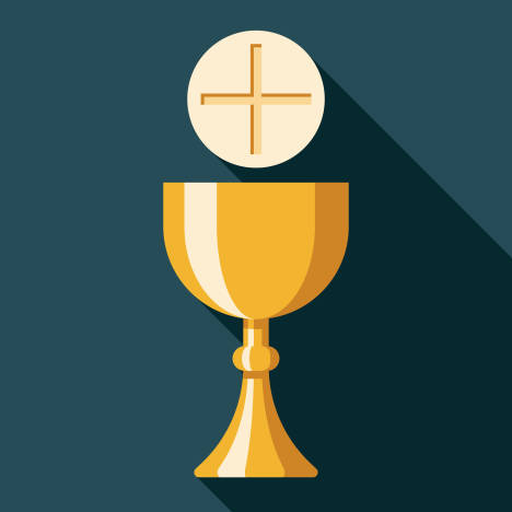
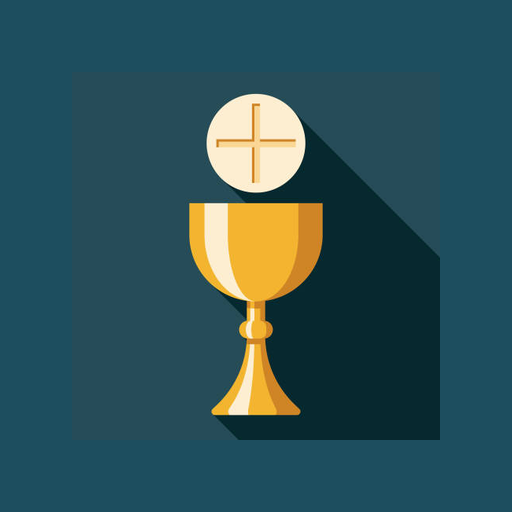
Add files via upload

diff --git a/templates/index.html b/templates/index.html
@@ -11,7 +11,7 @@
 <meta name="apple-mobile-web-app-capable" content="yes">
 <meta name="apple-mobile-web-app-status-bar-style" content="default">
 <meta name="apple-mobile-web-app-title" content="Intentions">
[2 lines of base64/hex data omitted]
 <link rel="preconnect" href="https://fonts.googleapis.com">
 <link href="https://fonts.googleapis.com/css2?family=Cormorant+Garamond:ital,wght@0,400;0,500;0,600;0,700;1,400&family=DM+Sans:wght@300;400;500;600&display=swap" rel="stylesheet">
 <style>
@@ -683,7 +683,7 @@ function renderGrille(jours) {
   const g = document.getElementById('grille-cal');
   g.innerHTML = '';
   if (!jours || !jours.length) { g.innerHTML = '<div style="grid-column:1/-1;padding:1.5rem;color:var(--texte3)">Aucune donnée.</div>'; return; }
-  ['Lu','Ma','Me','Je','Ve','Sa','Di'].forEach(j => {
+  ['Lun','Mar','Mer','Jeu','Ven','Sam','Dim'].forEach(j => {
     const el = document.createElement('div'); el.className = 'entete-cal'; el.textContent = j; g.appendChild(el);
   });
   let dec = (new Date(jours[0].date + 'T00:00:00').getDay() + 6) % 7;
@@ -774,7 +774,13 @@ function ouvrirPopupJour(j) {
     j.intentions.forEach(i => {
       const li = document.createElement('li');
       const fb = i.fixe    ? '<span class="badge badge-fixe">♦</span>'         : '';
-      const pb = i.periode ? '<span class="badge badge-periode">période</span>' : '';
+      let pbLabel = '';
+      if (i.periode) {
+        if (i.duree_periode === 9)       pbLabel = 'neuvaine';
+        else if (i.duree_periode === 30) pbLabel = 'trentain';
+        else                             pbLabel = 'période';
+      }
+      const pb = pbLabel ? `<span class="badge badge-periode">${pbLabel}</span>` : '';
       li.innerHTML = `<span class="nom-int">${i.nom}${fb}${pb}</span><span class="dem-int">${i.demandeur || '—'}</span>`;
       ul.appendChild(li);
     });
@@ -951,10 +957,30 @@ if (btnInstall && !isStandalone) {
 const btnNotif = document.getElementById('btn-notif');
 let vapidPublicKey = null;
 
+// Identifiant unique par navigateur (persistant)
+function getDeviceId() {
+  let id = localStorage.getItem('push_device_id');
+  if (!id) {
+    id = 'dev-' + Date.now().toString(36) + '-' + Math.random().toString(36).slice(2);
+    localStorage.setItem('push_device_id', id);
+  }
+  return id;
+}
+function getDeviceName() {
+  const ua = navigator.userAgent;
+  if (/Android/.test(ua)) return 'Android Chrome';
+  if (/iPhone|iPad/.test(ua)) return 'iOS Safari';
+  if (/Windows/.test(ua)) return 'Windows Chrome';
+  if (/Mac/.test(ua)) return 'Mac Chrome';
+  return 'Navigateur';
+}
+const DEVICE_ID   = getDeviceId();
+const DEVICE_NAME = getDeviceName();
+
 async function majEtatBoutonNotif() {
   try {
     const perm = Notification.permission;
-    const r = await fetch('/api/push/status').catch(() => null);
+    const r = await fetch(`/api/push/status?device_id=${DEVICE_ID}`).catch(() => null);
     const actif = r && r.ok ? (await r.json()).actif : false;
     if (perm === 'granted' && actif) {
       btnNotif.classList.add('actif');
@@ -992,7 +1018,7 @@ async function toggleNotifications() {
       const reg = await navigator.serviceWorker.ready;
       const sub = await reg.pushManager.getSubscription();
       if (sub) await sub.unsubscribe();
-      await fetch('/api/push/subscribe', { method: 'DELETE' });
+      await fetch(`/api/push/subscribe?device_id=${DEVICE_ID}`, { method: 'DELETE' });
       await majEtatBoutonNotif();
       afficherMsg('info', 'Notifications désactivées.', 'msg-inserer');
     } catch(e) { afficherMsg('erreur', 'Erreur : ' + e.message, 'msg-inserer'); }
@@ -1012,12 +1038,13 @@ async function toggleNotifications() {
       userVisibleOnly: true,
       applicationServerKey: urlBase64ToUint8Array(vapidPublicKey),
     });
+    const subJson = sub.toJSON();
     await fetch('/api/push/subscribe', {
       method: 'POST', headers: {'Content-Type':'application/json'},
-      body: JSON.stringify(sub.toJSON()),
+      body: JSON.stringify({ ...subJson, device_id: DEVICE_ID, device_name: DEVICE_NAME }),
     });
     await majEtatBoutonNotif();
-    const testR = await fetch('/api/push/test', { method: 'POST' });
+    const testR = await fetch(`/api/push/test?device_id=${DEVICE_ID}`, { method: 'POST' });
     if (testR.ok) {
       afficherMsg('succes', '✓ Notifications activées — une notification de test vient d\'être envoyée.', 'msg-inserer');
     } else {

diff --git a/app.py b/app.py
@@ -280,7 +280,8 @@ def serialise_jour(cur: date, map_jour: dict) -> dict:
             "nom":      o["nom"],
             "demandeur": o["demandeur"],
             "fixe":     o["fixe"],
-            "periode":  o["date_end"] is not None,
+            "periode":       o["date_end"] is not None,
+            "duree_periode": (o["date_end"] - o["date_start"]).days + 1 if o["date_end"] else None,
         } for o in occs],
     }
 
@@ -303,6 +304,8 @@ class DateLibreRequest(BaseModel):
 class PushSubscription(BaseModel):
     endpoint:       str
     keys:           dict
+    device_id:      str = "default"
+    device_name:    Optional[str] = None   # ex. "Android Chrome", "Windows Chrome"
     expirationTime: Optional[float] = None
 
 
@@ -615,35 +618,57 @@ from pywebpush import webpush, WebPushException
 from apscheduler.schedulers.asyncio import AsyncIOScheduler
 import pytz
 
-DATA_DIR = Path("data")
-SUB_FILE = DATA_DIR / "subscription.json"
+DATA_DIR  = Path("data")
+SUBS_DIR  = DATA_DIR / "subscriptions"
 DATA_DIR.mkdir(exist_ok=True)
-PARIS = pytz.timezone("Europe/Paris")
+SUBS_DIR.mkdir(exist_ok=True)
+PARIS     = pytz.timezone("Europe/Paris")
 MOIS_ABBR = ['jan.','fév.','mar.','avr.','mai','juin','juil.','août','sep.','oct.','nov.','déc.']
 
 
-def lire_subscription() -> Optional[dict]:
-    if SUB_FILE.exists():
+def _sub_path(device_id: str) -> Path:
+    # Sanitize : garder uniquement alphanum + tirets
+    safe = "".join(c for c in device_id if c.isalnum() or c == "-")[:64]
+    return SUBS_DIR / f"{safe}.json"
+
+
+def lire_subscriptions() -> list[dict]:
+    """Retourne toutes les subscriptions actives."""
+    subs = []
+    for p in SUBS_DIR.glob("*.json"):
         try:
-            return json.loads(SUB_FILE.read_text())
+            subs.append(json.loads(p.read_text()))
         except Exception:
-            return None
-    return None
+            pass
+    return subs
 
 
-def sauver_subscription(sub: dict) -> None:
-    SUB_FILE.write_text(json.dumps(sub, ensure_ascii=False, indent=2))
+def sauver_subscription(device_id: str, sub: dict) -> None:
+    _sub_path(device_id).write_text(json.dumps(sub, ensure_ascii=False, indent=2))
 
 
-def supprimer_subscription() -> None:
-    if SUB_FILE.exists():
-        SUB_FILE.unlink()
+def supprimer_subscription(device_id: str) -> None:
+    p = _sub_path(device_id)
+    if p.exists():
+        p.unlink()
 
 
-def envoyer_notification(subscription: dict, titre: str, corps: str) -> bool:
+def supprimer_subscription_par_endpoint(endpoint: str) -> None:
+    """Supprime l'abonnement dont l'endpoint correspond (utilisé en cas de 404/410)."""
+    for p in SUBS_DIR.glob("*.json"):
+        try:
+            data = json.loads(p.read_text())
+            if data.get("endpoint") == endpoint:
+                p.unlink()
+                return
+        except Exception:
+            pass
+
+
+def _envoyer_une(subscription: dict, titre: str, corps: str) -> tuple[bool, str]:
+    """Envoie à un seul abonné. Retourne (succès, msg_erreur)."""
     if not VAPID_PRIVATE_KEY or not VAPID_PUBLIC_KEY:
-        logger.warning("VAPID absentes — pas d'envoi")
-        return False
+        return False, "VAPID absentes."
     try:
         webpush(
             subscription_info=subscription,
@@ -652,15 +677,38 @@ def envoyer_notification(subscription: dict, titre: str, corps: str) -> bool:
             vapid_private_key=VAPID_PRIVATE_KEY,
             vapid_claims={"sub": f"mailto:{VAPID_EMAIL}"},
         )
-        return True
+        return True, ""
     except WebPushException as e:
-        logger.error("Push error: %s", e)
-        if e.response and e.response.status_code in (404, 410):
-            supprimer_subscription()
-        return False
+        status = e.response.status_code if e.response else "?"
+        body  = e.response.text[:200] if e.response else ""
+        msg   = f"Push HTTP {status} : {body}"
+        if status in (404, 410):
+            supprimer_subscription_par_endpoint(subscription.get("endpoint", ""))
+            msg += " (abonnement expiré, supprimé)"
+        elif status == 403:
+            msg += " — Mismatch VAPID : désabonnez puis réabonnez cet appareil."
+        logger.error("Push: %s", msg)
+        return False, msg
     except Exception as e:
-        logger.error("Push unexpected: %s", e)
-        return False
+        msg = f"{type(e).__name__} : {str(e)[:200]}"
+        logger.error("Push unexpected: %s", msg)
+        return False, msg
+
+
+def envoyer_a_tous(titre: str, corps: str) -> dict:
+    """Envoie à tous les appareils abonnés. Retourne un résumé."""
+    subs = lire_subscriptions()
+    if not subs:
+        return {"envoyes": 0, "echecs": 0, "detail": []}
+    resultats = []
+    for sub in subs:
+        ok, err = _envoyer_une(sub, titre, corps)
+        resultats.append({"endpoint": sub.get("endpoint", "")[:40], "ok": ok, "err": err})
+    return {
+        "envoyes": sum(1 for r in resultats if r["ok"]),
+        "echecs":  sum(1 for r in resultats if not r["ok"]),
+        "detail":  resultats,
+    }
 
 
 def _texte_intentions_du_jour(occs: list[dict], jour: date) -> tuple[str, str]:
@@ -673,9 +721,6 @@ def _texte_intentions_du_jour(occs: list[dict], jour: date) -> tuple[str, str]:
 
 
 async def tache_notification_matin():
-    sub = lire_subscription()
-    if not sub:
-        return
     aujourd = date.today()
     try:
         intentions = await fetch_all_intentions(forcer=True)
@@ -684,7 +729,8 @@ async def tache_notification_matin():
         return
     occs = build_map_jour(intentions).get(aujourd, [])
     titre, corps = _texte_intentions_du_jour(occs, aujourd)
-    envoyer_notification(sub, titre, corps)
+    res = envoyer_a_tous(titre, corps)
+    logger.info("Notification matin: %d envoyées, %d échecs", res["envoyes"], res["echecs"])
 
 
 scheduler = AsyncIOScheduler(timezone=PARIS)
@@ -747,33 +793,58 @@ Apres ajout dans Railway, cliquez sur Redeploy.</div></body></html>"""
 
 @app.post("/api/push/subscribe")
 async def push_subscribe(sub: PushSubscription):
-    sauver_subscription({"endpoint": sub.endpoint, "keys": sub.keys, "expirationTime": sub.expirationTime})
+    sauver_subscription(sub.device_id, {
+        "endpoint":       sub.endpoint,
+        "keys":           sub.keys,
+        "device_id":      sub.device_id,
+        "device_name":    sub.device_name or "Appareil inconnu",
+        "expirationTime": sub.expirationTime,
+    })
     return {"ok": True}
 
 
 @app.delete("/api/push/subscribe")
-async def push_unsubscribe():
-    supprimer_subscription()
+async def push_unsubscribe(device_id: str = "default"):
+    supprimer_subscription(device_id)
     return {"ok": True}
 
 
 @app.get("/api/push/status")
-async def push_status():
-    sub = lire_subscription()
-    return {"actif": sub is not None}
+async def push_status(device_id: str = "default"):
+    p = _sub_path(device_id)
+    subs = lire_subscriptions()
+    noms = [s.get("device_name", s.get("device_id", "?")) for s in subs]
+    return {
+        "actif":        p.exists(),
+        "total_appareils": len(subs),
+        "appareils":    noms,
+    }
 
 
 @app.post("/api/push/test")
-async def push_test():
-    sub = lire_subscription()
-    if not sub:
-        raise HTTPException(400, "Aucun abonnement enregistré.")
+async def push_test(device_id: str = "default"):
+    """Envoie une notification de test à un appareil spécifique (ou tous si device_id=all)."""
     aujourd = date.today()
     try:
         occs = build_map_jour(await fetch_all_intentions()).get(aujourd, [])
     except Exception:
         occs = []
     titre, corps = _texte_intentions_du_jour(occs, aujourd)
-    if not envoyer_notification(sub, titre, corps):
-        raise HTTPException(500, "Échec de l'envoi. Vérifiez les clés VAPID.")
+
+    if device_id == "all":
+        res = envoyer_a_tous(titre, corps)
+        if res["envoyes"] == 0:
+            raise HTTPException(500, f"Tous les envois ont échoué : {res['detail']}")
+        return {"ok": True, "envoyes": res["envoyes"], "echecs": res["echecs"]}
+
+    p = _sub_path(device_id)
+    if not p.exists():
+        raise HTTPException(400, f"Aucun abonnement pour device_id={device_id}.")
+    try:
+        sub = json.loads(p.read_text())
+    except Exception:
+        raise HTTPException(500, "Fichier d'abonnement illisible.")
+    ok, err = _envoyer_une(sub, titre, corps)
+    if not ok:
+        raise HTTPException(500, err)
     return {"ok": True}